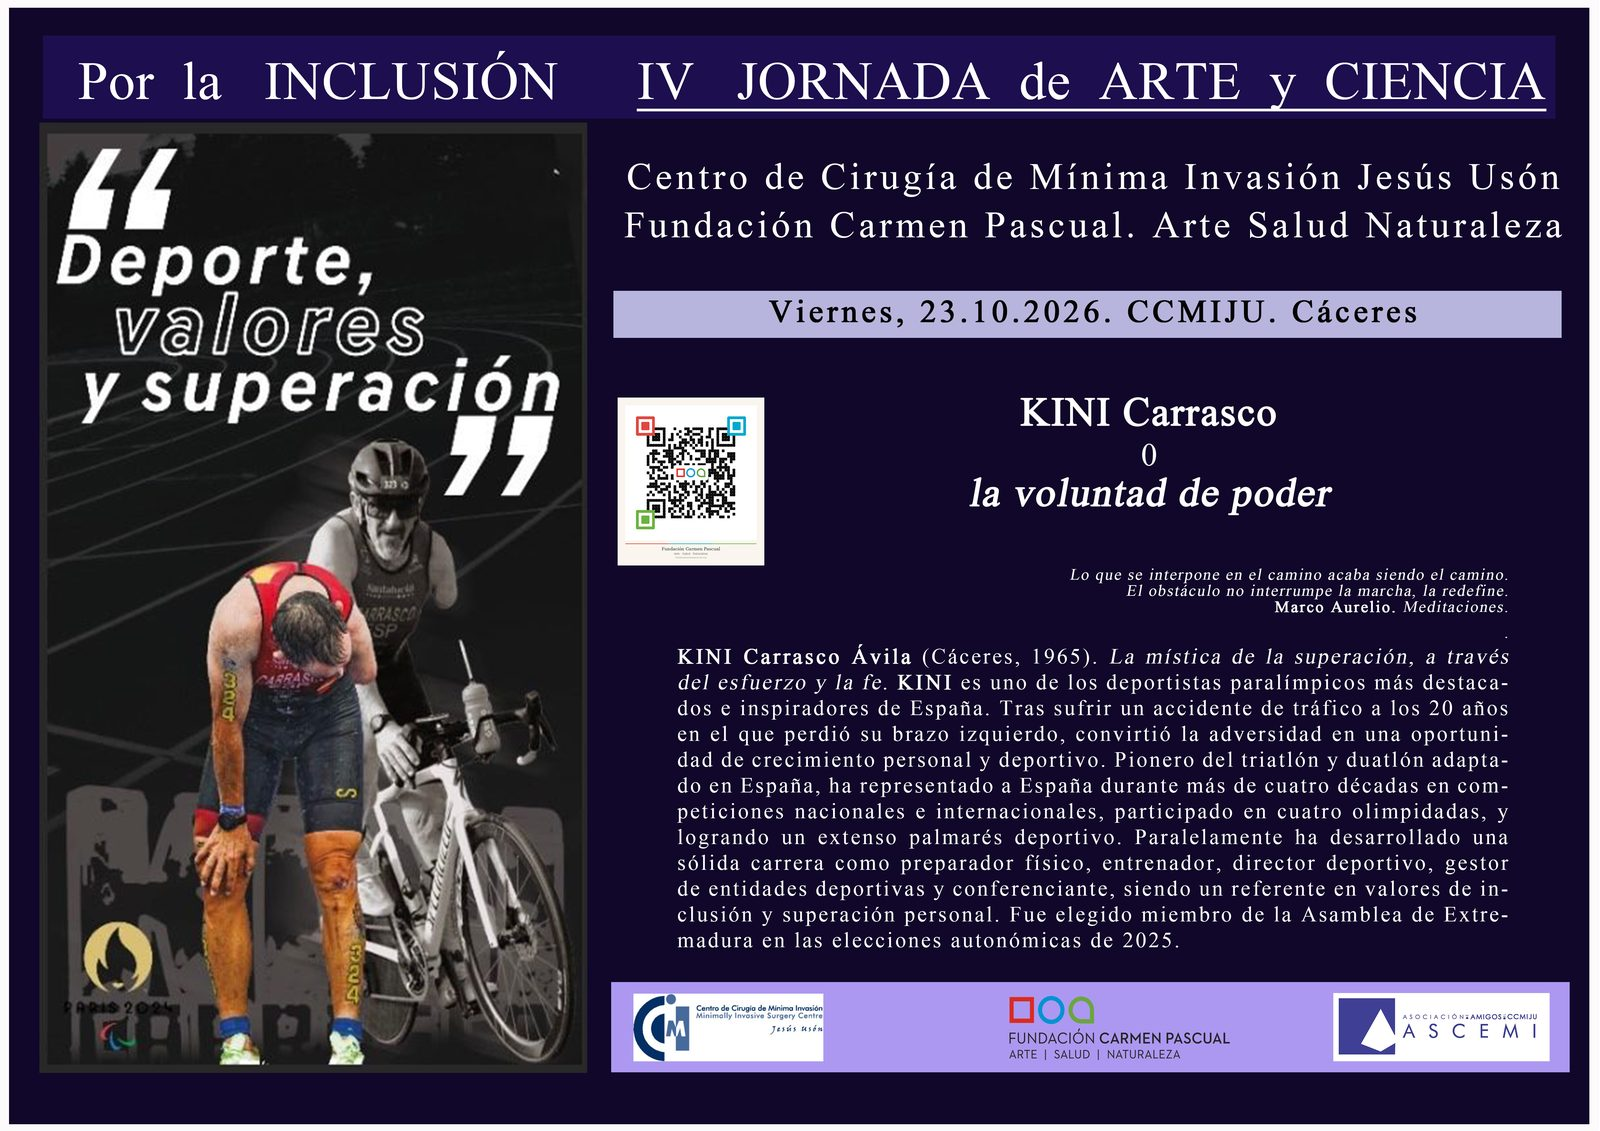
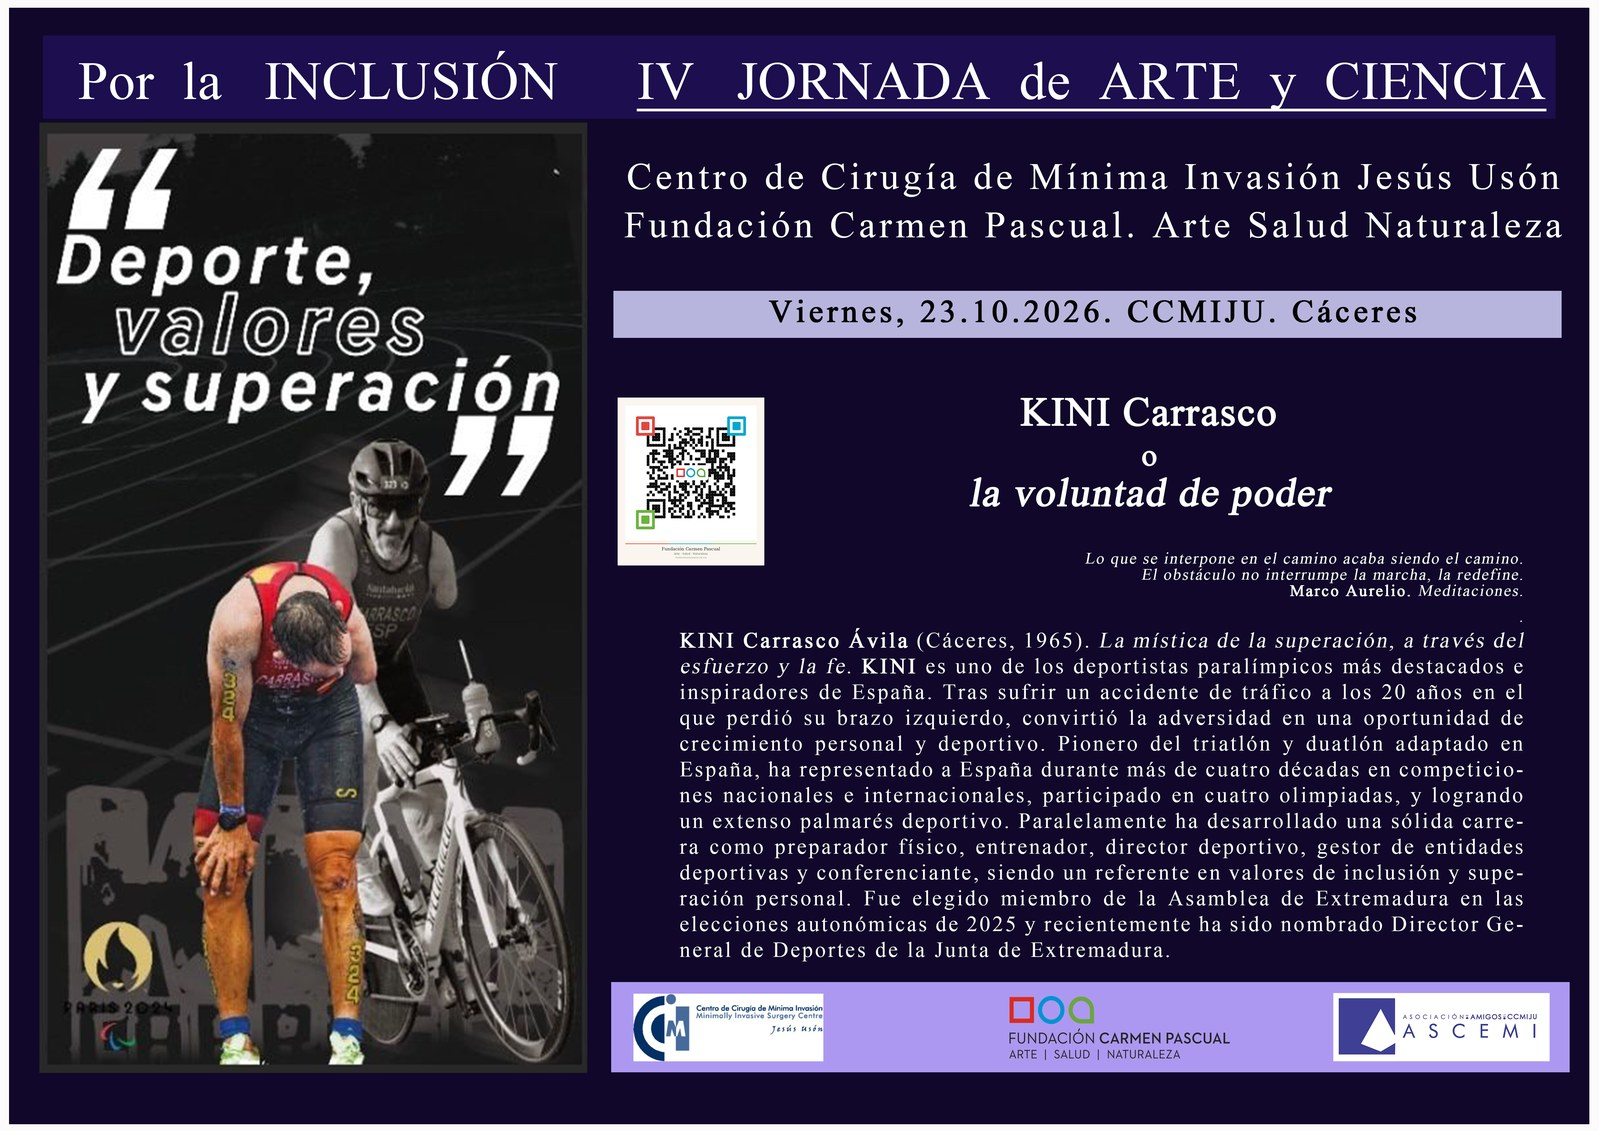
IV Jornada: el cartel de KINI corregido, y el lema de la portada
El cartel de KINI Carrasco se sustituye por la version nueva, que anade
su nombramiento como Director General de Deportes de la Junta de
Extremadura. Sobre ese JPEG se corrigen de paso dos erratas que venian
del original: "olimpidadas" pasa a "olimpiadas", rejustificando la linea
para que siga cuadrada a los dos margenes, y el cero que separaba
"KINI Carrasco" de "la voluntad de poder" pasa a ser la letra o,
trasplantada del propio titulo. El .psd las conserva.

La semblanza de la web recoge ya el nombramiento, en espanol y en ingles.

Y el lema de la portada cambia "horizonte" por "ideal": la INCLUSION de
todos es el ideal.

Changed region(s): [[0.4062, 0.4951, 0.9688, 0.8665]]

diff --git a/docs/index.html b/docs/index.html
@@ -2402,13 +2402,13 @@
         <p class="hero-lema">El poder del ARTE, el compromiso con la <span class="incl">INCLUSIÓN</span>.</p>
         <p>A los 80 años, CARMEN PASCUAL sufrió un ictus severo; a partir de entonces creó más de 1.500 obras hasta los 93, superando la adversidad con alegría y la práctica artística.</p>
         <p>Hoy su fundación lleva ese mismo espíritu a la <span class="incl">INCLUSIÓN</span> de personas con diferentes capacidades, a través de actividades terapéuticas y de conocimiento, de ARTE, SALUD y NATURALEZA para el desarrollo de la plasticidad neuronal , hacia el bienestar personal, el enriquecimiento cultural y hacia una sociedad más cohesionada e integradora.</p>
-        <p class="hero-cierre"><em>Su ejemplo fue el principio. La <span class="incl">INCLUSIÓN</span> de todos es el horizonte.</em></p>
+        <p class="hero-cierre"><em>Su ejemplo fue el principio. La <span class="incl">INCLUSIÓN</span> de todos es el ideal.</em></p>
       </div>
       <div class="hero-subtitle only-en">
         <p class="hero-lema">The power of ART, the commitment to <span class="incl">INCLUSION</span>.</p>
         <p>At 80, CARMEN PASCUAL suffered a severe stroke; from then on she created more than 1,500 works until the age of 93, overcoming adversity with joy and artistic practice.</p>
         <p>Today her foundation carries that same spirit to the <span class="incl">INCLUSION</span> of people with different abilities, through therapeutic and educational activities using ART, HEALTH and NATURE to develop neuroplasticity, towards personal wellbeing, cultural enrichment and a fairer, more human and solidary society.</p>
-        <p class="hero-cierre"><em>Her example was the beginning. The <span class="incl">INCLUSION</span> of all is the horizon.</em></p>
+        <p class="hero-cierre"><em>Her example was the beginning. The <span class="incl">INCLUSION</span> of all is the ideal.</em></p>
       </div>
       <div class="hero-buttons">
         <a href="#obra" class="btn-primary">
@@ -2531,10 +2531,10 @@
         <blockquote class="jornada-iv-cita only-en">What stands in the way becomes the way. The obstacle does not halt the march; it redefines it.<span>Marcus Aurelius, <em>Meditations</em></span></blockquote>
 
         <p class="only-es"><strong><span class="incl">KINI</span> Carrasco Ávila</strong> (Cáceres, 1965) es uno de los deportistas paralímpicos más destacados e inspiradores de España. Tras sufrir un accidente de tráfico a los veinte años en el que perdió su brazo izquierdo, convirtió la adversidad en una oportunidad de crecimiento personal y deportivo.</p>
-        <p class="only-es">Pionero del triatlón y el duatlón adaptados en España, ha representado a su país durante más de cuatro décadas en competiciones nacionales e internacionales y ha participado en cuatro olimpiadas, con un extenso palmarés. En paralelo ha desarrollado una sólida carrera como preparador físico, entrenador, director deportivo, gestor de entidades deportivas y conferenciante, y es un referente en valores de <span class="incl">INCLUSIÓN</span> y superación personal. En 2025 fue elegido miembro de la Asamblea de Extremadura.</p>
+        <p class="only-es">Pionero del triatlón y el duatlón adaptados en España, ha representado a su país durante más de cuatro décadas en competiciones nacionales e internacionales y ha participado en cuatro olimpiadas, con un extenso palmarés. En paralelo ha desarrollado una sólida carrera como preparador físico, entrenador, director deportivo, gestor de entidades deportivas y conferenciante, y es un referente en valores de <span class="incl">INCLUSIÓN</span> y superación personal. En 2025 fue elegido miembro de la Asamblea de Extremadura y recientemente ha sido nombrado Director General de Deportes de la Junta de Extremadura.</p>
 
         <p class="only-en"><strong><span class="incl">KINI</span> Carrasco Ávila</strong> (Cáceres, 1965) is one of Spain's most prominent and inspiring Paralympic athletes. After a traffic accident at the age of twenty in which he lost his left arm, he turned adversity into an opportunity for personal and sporting growth.</p>
-        <p class="only-en">A pioneer of adapted triathlon and duathlon in Spain, he has represented his country for more than four decades in national and international competition and has taken part in four Olympic Games. Alongside his sporting career he has worked as a physical trainer, coach, sports director, manager and speaker, and is a leading voice on <span class="incl">INCLUSION</span> and personal achievement. In 2025 he was elected a member of the Assembly of Extremadura.</p>
+        <p class="only-en">A pioneer of adapted triathlon and duathlon in Spain, he has represented his country for more than four decades in national and international competition and has taken part in four Olympic Games. Alongside his sporting career he has worked as a physical trainer, coach, sports director, manager and speaker, and is a leading voice on <span class="incl">INCLUSION</span> and personal achievement. In 2025 he was elected a member of the Assembly of Extremadura, and he has recently been appointed Director General of Sport of the Regional Government of Extremadura.</p>
       </div>
 
       <!-- ── bloque: Clara del Carmen ── -->
